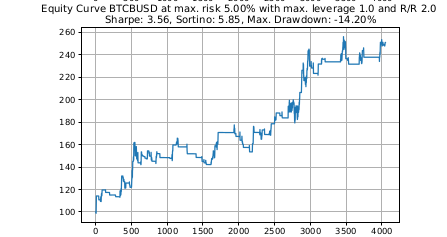
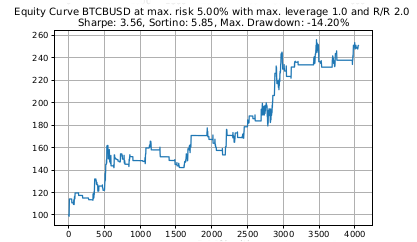
centered all images

Changed region(s): [[0.0312, 0.0, 0.9976, 1.0]]

diff --git a/README.md b/README.md
@@ -12,7 +12,9 @@
 	* An example strategy that serves as a blueprint for your own strategies or as a starting point to build upon.
 	* A Portfolio class that makes combining your strategies into full portfolios straight forward.
 
-    ![Image](./images/pnl.jpeg)
+	<p align="center">
+	<img src="https://github.com/MarkusMusch/bot/blob/main/images/pnl.jpeg" />
+	</p>
 
     > In the period from 11th of December 2022, when the bot first went live, until 28th of December 2022 it produced a cummulative PnL of 9.59%
     >
@@ -24,7 +26,9 @@
 	* Two backtest modules for an example strategy and an example portfolio that you can copy paste and easily adapt to your use case.
 	* Backtest reports for the example strategy including plots of the equity curve and important performance metrics for different parameters.
 
-    ![Image](./images/equity_curve.png)
+	<p align="center">
+	<img src="https://github.com/MarkusMusch/bot/blob/main/images/equity_curve.png" />
+	</p>
 
     > The backtest in the image above shows the returns that would have been achieved with the full portfolio of proprietary trading strategies starting 21st of February 2021.
 
@@ -34,7 +38,9 @@
     * A datapipline module that can easily be adapted to fetch data of your favorite coin and time frame and store it into a csv file.
 	* A collection of csv files with the data of your favorite coins to improve backtesting speed and enable coding work offline.
 
-    ![Image](./images/backtest_flowchart.png)
+	<p align="center">
+	<img src="https://github.com/MarkusMusch/bot/blob/main/images/backtest_flowchart.png" />
+	</p>
 
     > The above flow chart shows the data flow from the exchange API through the datapipline into the database. From there we load the data to run backtests and produce detailed reports on all our teted strategies.
 
@@ -95,8 +101,6 @@ The Backtest object will also save a report of you backtest in the /bot/back_tes
 <p align="center">
   <img src="https://github.com/MarkusMusch/bot/blob/main/images/single_strat_backtest.png" />
 </p>
-
-![image](./images/single_strat_backtest.png)
 
 #### Full Portfolio Backtest
 
